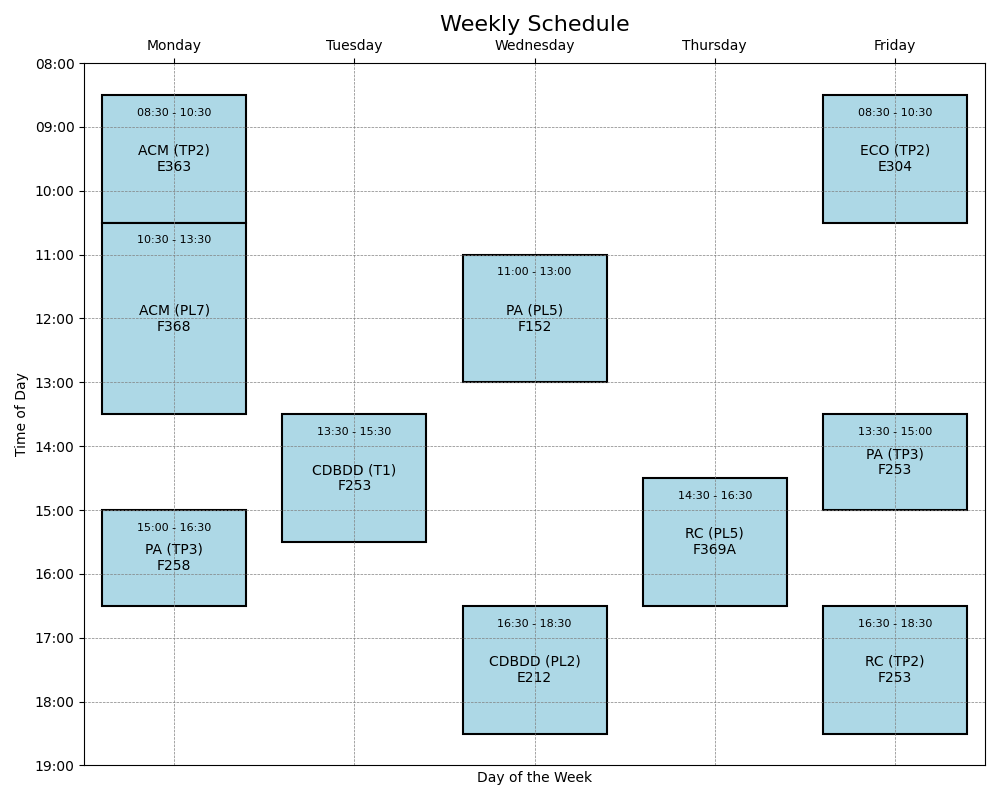
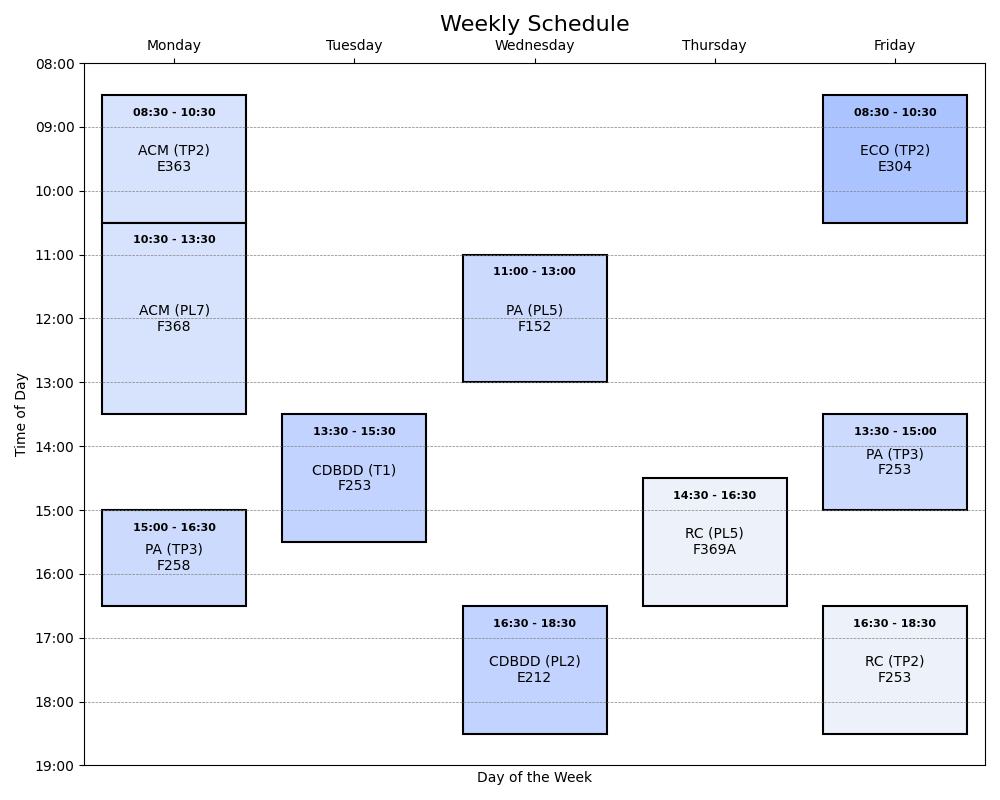
Colors by class. Removed vertical lines.

diff --git a/table-schedule-maker.py b/table-schedule-maker.py
@@ -9,6 +9,19 @@ with open('schedule.yaml', 'r') as file:
 # Create a DataFrame from the data
 df = pd.DataFrame(data, columns=['Day', 'Start', 'End', 'ClassName', 'ClassNumber', 'Room'])
 
+# Create a list of unique classes 
+unique_classes = list(set(df['ClassName'])) 
+
+# Read the all the colors from the YAML file
+with open('colors.yaml', 'r') as file:
+    colors_data = yaml.safe_load(file)
+
+# Ensure colors_data is a list of colors
+colors_list = colors_data if isinstance(colors_data, list) else list(colors_data.values())
+
+# Create a map with the class and colors, cycling through the colors using modulo
+class_colors = {class_name: colors_list[i % len(colors_list)] for i, class_name in enumerate(unique_classes)}
+
 # Create figure and axis
 fig, ax = plt.subplots(figsize=(10, 8))
 
@@ -34,6 +47,8 @@ ax.invert_yaxis()
 
 # Add gridlines to represent time slots and days
 ax.grid(True, which='both', linestyle='--', color='gray', linewidth=0.5)
+
+ax.grid(axis='x', visible=False)
 
 # Function to convert time (e.g., '08:30') to fractional hours (e.g., 8.5)
 def time_to_float(time_str):
@@ -62,10 +77,10 @@ for _, row in df.iterrows():
     height = end_time_index - start_time_index  # Calculate the height based on duration
 
     # Create a rectangle for the class with some margin to avoid overlap with grid lines
-    ax.add_patch(plt.Rectangle((day_index - 0.4, start_time_index), 0.8, height, facecolor='lightblue', edgecolor='black', linewidth=1.5))
+    ax.add_patch(plt.Rectangle((day_index - 0.4, start_time_index), 0.8, height, facecolor=class_colors[class_name], edgecolor='black', linewidth=1.5))
 
     # Add the top start and end times of the class
-    ax.text(day_index, start_time_index + 0.2, f"{start_date} - {end_date}", va='top', ha='center', fontsize=8, color='black')
+    ax.text(day_index, start_time_index + 0.2, f"{start_date} - {end_date}", va='top', ha='center', fontsize=8, color='black', fontweight='bold')
 
     # Add text inside the rectangle
     ax.text(day_index, (start_time_index + end_time_index) / 2, f"{class_name} {class_number}\n{room}", 
